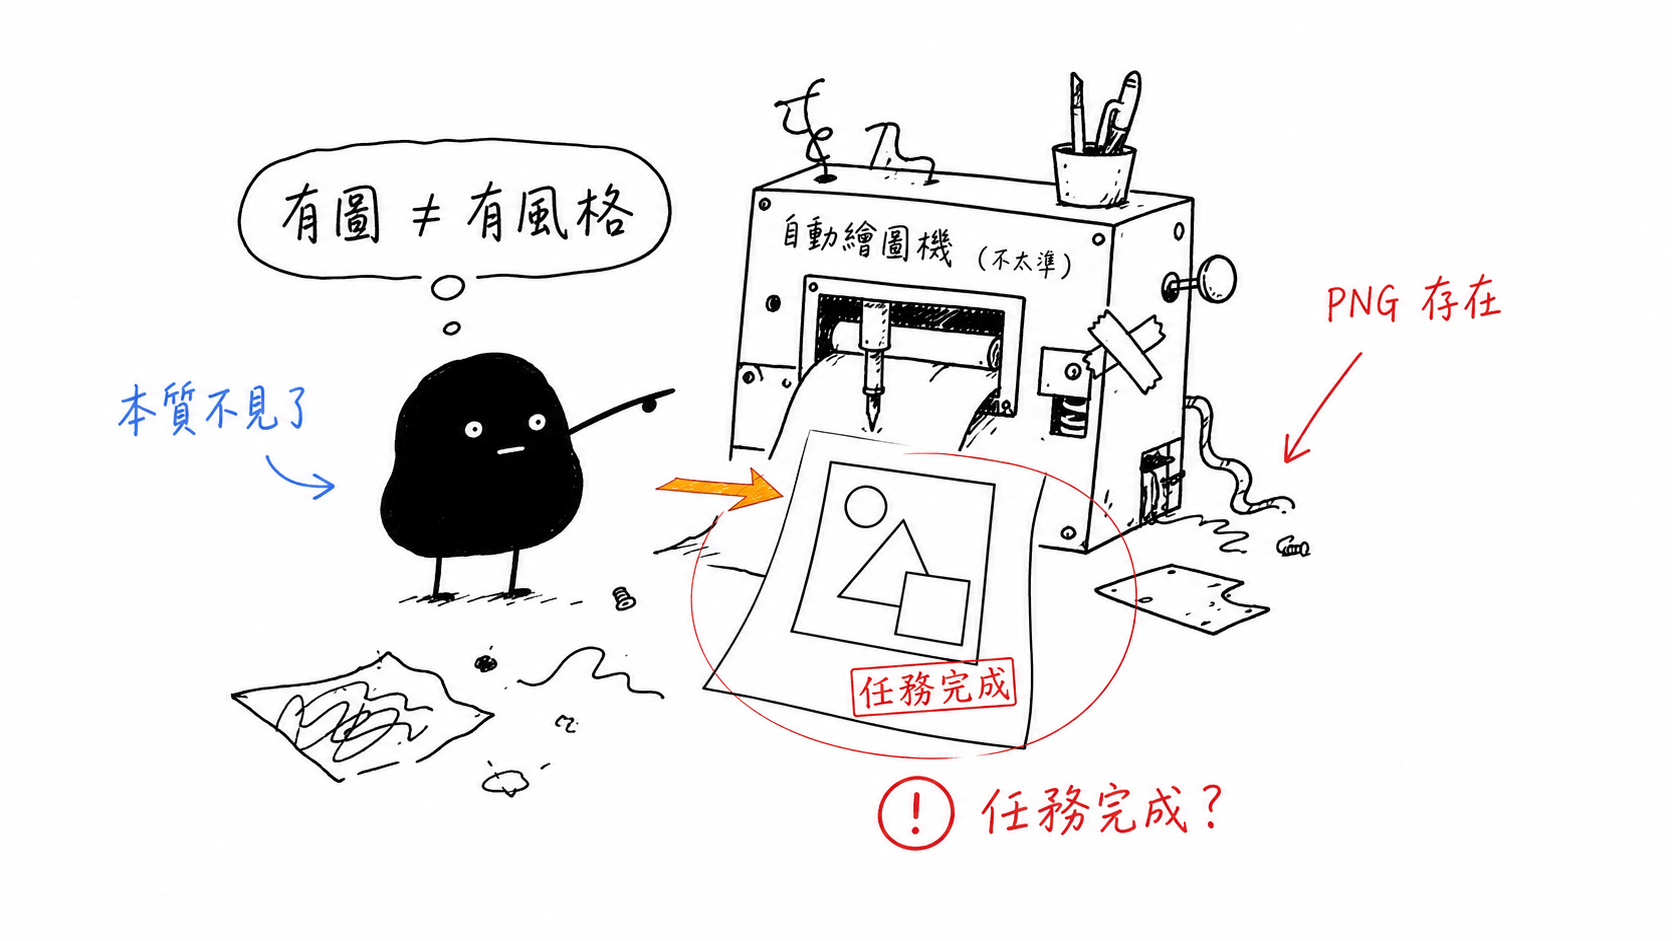
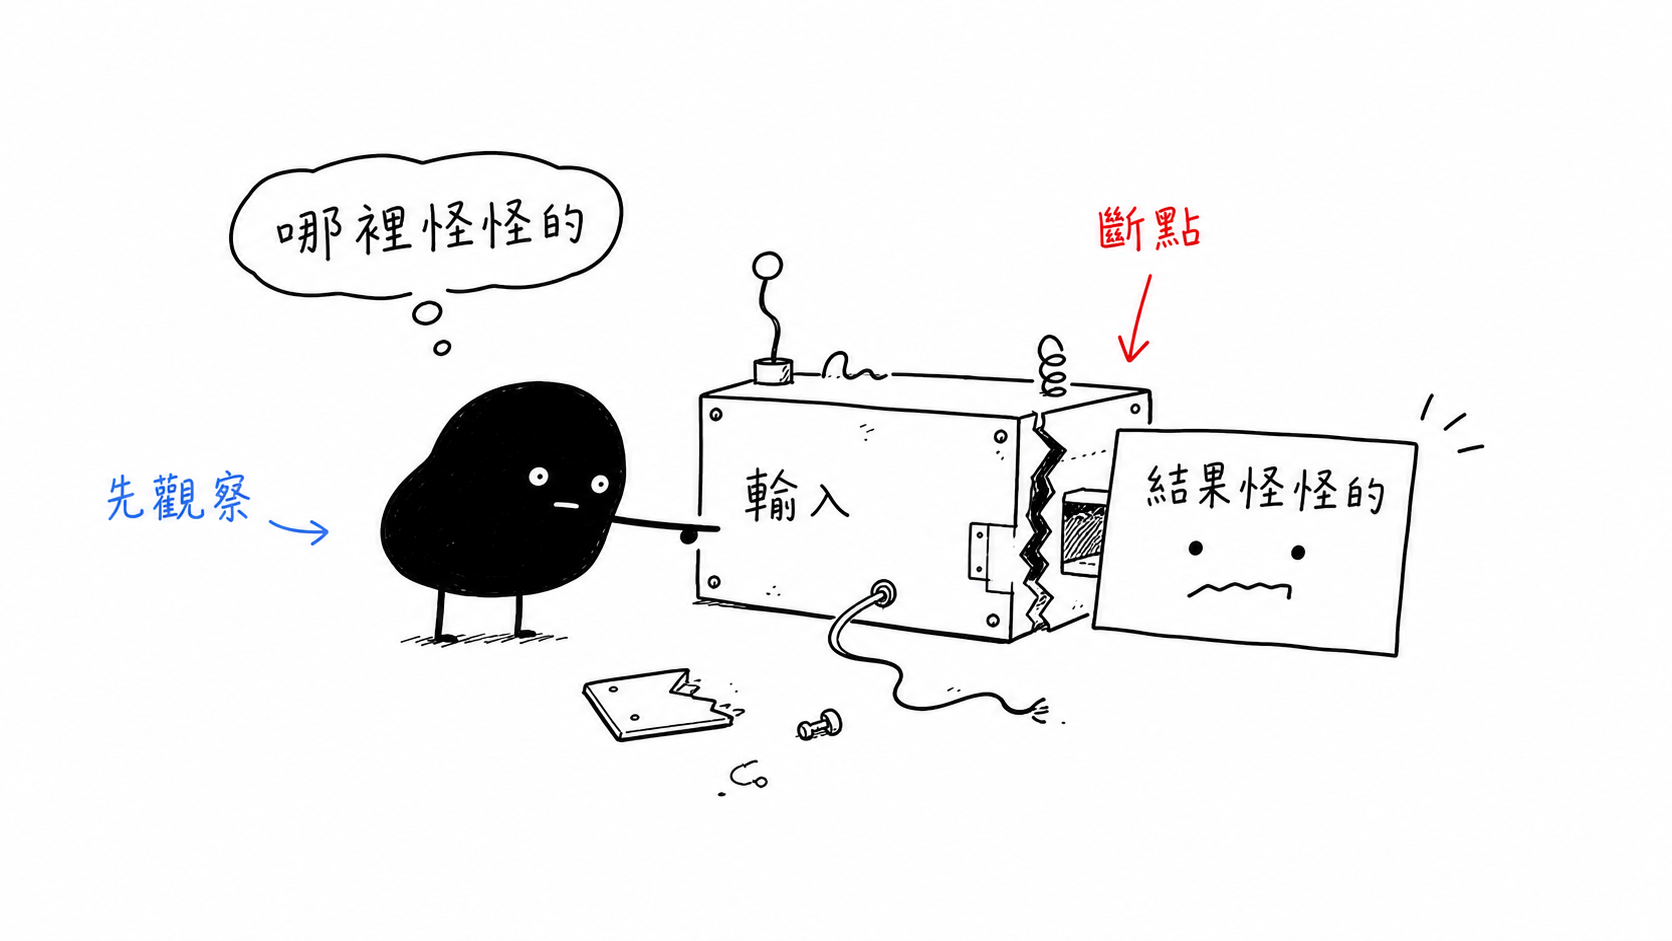
feat: regenerate six thinking role samples

diff --git a/examples/images/thinking-roles-v0/README.md b/examples/images/thinking-roles-v0/README.md
@@ -1,50 +1,95 @@
 # Thinking Roles V0 Image Provenance
 
-These sample images test the first three thinking roles before expanding the
-full mascot set. Each file was generated one-by-one with `image_gen` on
-2026-05-29, then copied into this directory without deleting the original
-generated file.
+These six role samples test the complete thinking-character set. Each image
+was generated one-by-one with `image_gen` on 2026-05-29, then copied into this
+directory without deleting the original generated file.
+
+The selected samples emphasize visual differentiation through silhouette,
+signature prop, motion language, and small accent placement. They do not use
+full-body color swaps.
 
 ## Files
 
 ### `01-xiaohei-anomaly-observation.png`
 
 - image_path: `examples/images/thinking-roles-v0/01-xiaohei-anomaly-observation.png`
-- original_generated_file: `/home/jnclaw/.codex/generated_images/019e72f6-f821-7d71-a46e-2a942c6241b7/ig_0ae2de2582645023016a196817e7808191afc8c7a580008e48.png`
+- original_generated_file: `/home/jnclaw/.codex/generated_images/019e72f6-f821-7d71-a46e-2a942c6241b7/ig_0ae2de2582645023016a197227a1608191af3b4f8530f87c3e.png`
 - generated_date: 2026-05-29
 - mascot: 小黑
 - thinking_function: anomaly_observation
-- scene_goal: Show that a generated PNG can exist while the original hand-drawn style is lost.
+- scene_goal: Show Xiaohei observing a broken gap before acting.
 - generation_method: image_gen
 - selected_by_human: yes
-- regenerated_from: none
+- regenerated_from: earlier Xiaohei candidate with weaker role-scene clarity
 - usage_location: `README.md`
 - notes: No QR code file was modified.
 
 ### `02-xiaoquan-compression-execution.png`
 
 - image_path: `examples/images/thinking-roles-v0/02-xiaoquan-compression-execution.png`
-- original_generated_file: `/home/jnclaw/.codex/generated_images/019e72f6-f821-7d71-a46e-2a942c6241b7/ig_0ae2de2582645023016a196908206c81919b602e857b04edd1.png`
+- original_generated_file: `/home/jnclaw/.codex/generated_images/019e72f6-f821-7d71-a46e-2a942c6241b7/ig_0ae2de2582645023016a197272e59081919d0ffa0ac52fc8b5.png`
 - generated_date: 2026-05-29
 - mascot: 小拳
 - thinking_function: compression_and_execution
-- scene_goal: Show Xiaoquan compressing a messy workflow into the core essence before execution.
+- scene_goal: Show Xiaoquan compressing noise into the core essence before execution.
 - generation_method: image_gen
 - selected_by_human: yes
-- regenerated_from: earlier Xiaoquan candidate with weaker black-body role identity
+- regenerated_from: previous three-role sample set
 - usage_location: `README.md`
 - notes: No programmatic drawing was used.
 
-### `03-xiaozi-critique-risk.png`
+### `03-xiaolan-structure-logic.png`
 
-- image_path: `examples/images/thinking-roles-v0/03-xiaozi-critique-risk.png`
-- original_generated_file: `/home/jnclaw/.codex/generated_images/019e72f6-f821-7d71-a46e-2a942c6241b7/ig_0ae2de2582645023016a19696af290819194e421f0e9a3233d.png`
+- image_path: `examples/images/thinking-roles-v0/03-xiaolan-structure-logic.png`
+- original_generated_file: `/home/jnclaw/.codex/generated_images/019e72f6-f821-7d71-a46e-2a942c6241b7/ig_0ae2de2582645023016a1972c3694c819199d67e649815d793.png`
+- generated_date: 2026-05-29
+- mascot: 小藍
+- thinking_function: structure_and_logic
+- scene_goal: Show Xiaolan drawing boundaries, blue nodes, and causal structure around messy parts.
+- generation_method: image_gen
+- selected_by_human: yes
+- regenerated_from: none
+- usage_location: `README.md`
+- notes: Blue is used only as a structural accent.
+
+### `04-xiaolu-growth-repair.png`
+
+- image_path: `examples/images/thinking-roles-v0/04-xiaolu-growth-repair.png`
+- original_generated_file: `/home/jnclaw/.codex/generated_images/019e72f6-f821-7d71-a46e-2a942c6241b7/ig_0ae2de2582645023016a19731d89d08191b8d81bfd0b49eb34.png`
+- generated_date: 2026-05-29
+- mascot: 小綠
+- thinking_function: growth_and_repair
+- scene_goal: Show Xiaolu tending fermentation, repair, and slow growth.
+- generation_method: image_gen
+- selected_by_human: yes
+- regenerated_from: none
+- usage_location: `README.md`
+- notes: Green is used only for sprout, repair, and growth accents.
+
+### `05-xiaozi-critique-risk.png`
+
+- image_path: `examples/images/thinking-roles-v0/05-xiaozi-critique-risk.png`
+- original_generated_file: `/home/jnclaw/.codex/generated_images/019e72f6-f821-7d71-a46e-2a942c6241b7/ig_0ae2de2582645023016a19736cb9a8819195510986b6648563.png`
 - generated_date: 2026-05-29
 - mascot: 小紫
 - thinking_function: critique_and_risk
-- scene_goal: Show Xiaozi checking image provenance, README paths, QR protection, and blocked PIL shortcuts before release.
+- scene_goal: Show Xiaozi checking provenance, README paths, QR protection, and shortcut risk.
 - generation_method: image_gen
 - selected_by_human: yes
-- regenerated_from: earlier Xiaozi candidate with weaker Traditional Chinese control
+- regenerated_from: previous three-role sample set
 - usage_location: `README.md`
-- notes: QR code content is only a drawn review-card symbol in this sample; the functional repo QR asset was not modified.
+- notes: QR code content is only a drawn review-card symbol; the functional repo QR asset was not modified.
+
+### `06-xiaohuang-imagination-jump.png`
+
+- image_path: `examples/images/thinking-roles-v0/06-xiaohuang-imagination-jump.png`
+- original_generated_file: `/home/jnclaw/.codex/generated_images/019e72f6-f821-7d71-a46e-2a942c6241b7/ig_0ae2de2582645023016a1973c7dae0819183b71fb78d13fb98.png`
+- generated_date: 2026-05-29
+- mascot: 小黃
+- thinking_function: imagination_and_jump
+- scene_goal: Show Xiaohuang jumping out of the box and connecting distant objects into a new metaphor.
+- generation_method: image_gen
+- selected_by_human: yes
+- regenerated_from: none
+- usage_location: `README.md`
+- notes: Yellow is used only for sparks, orbit lines, and metaphor connection.